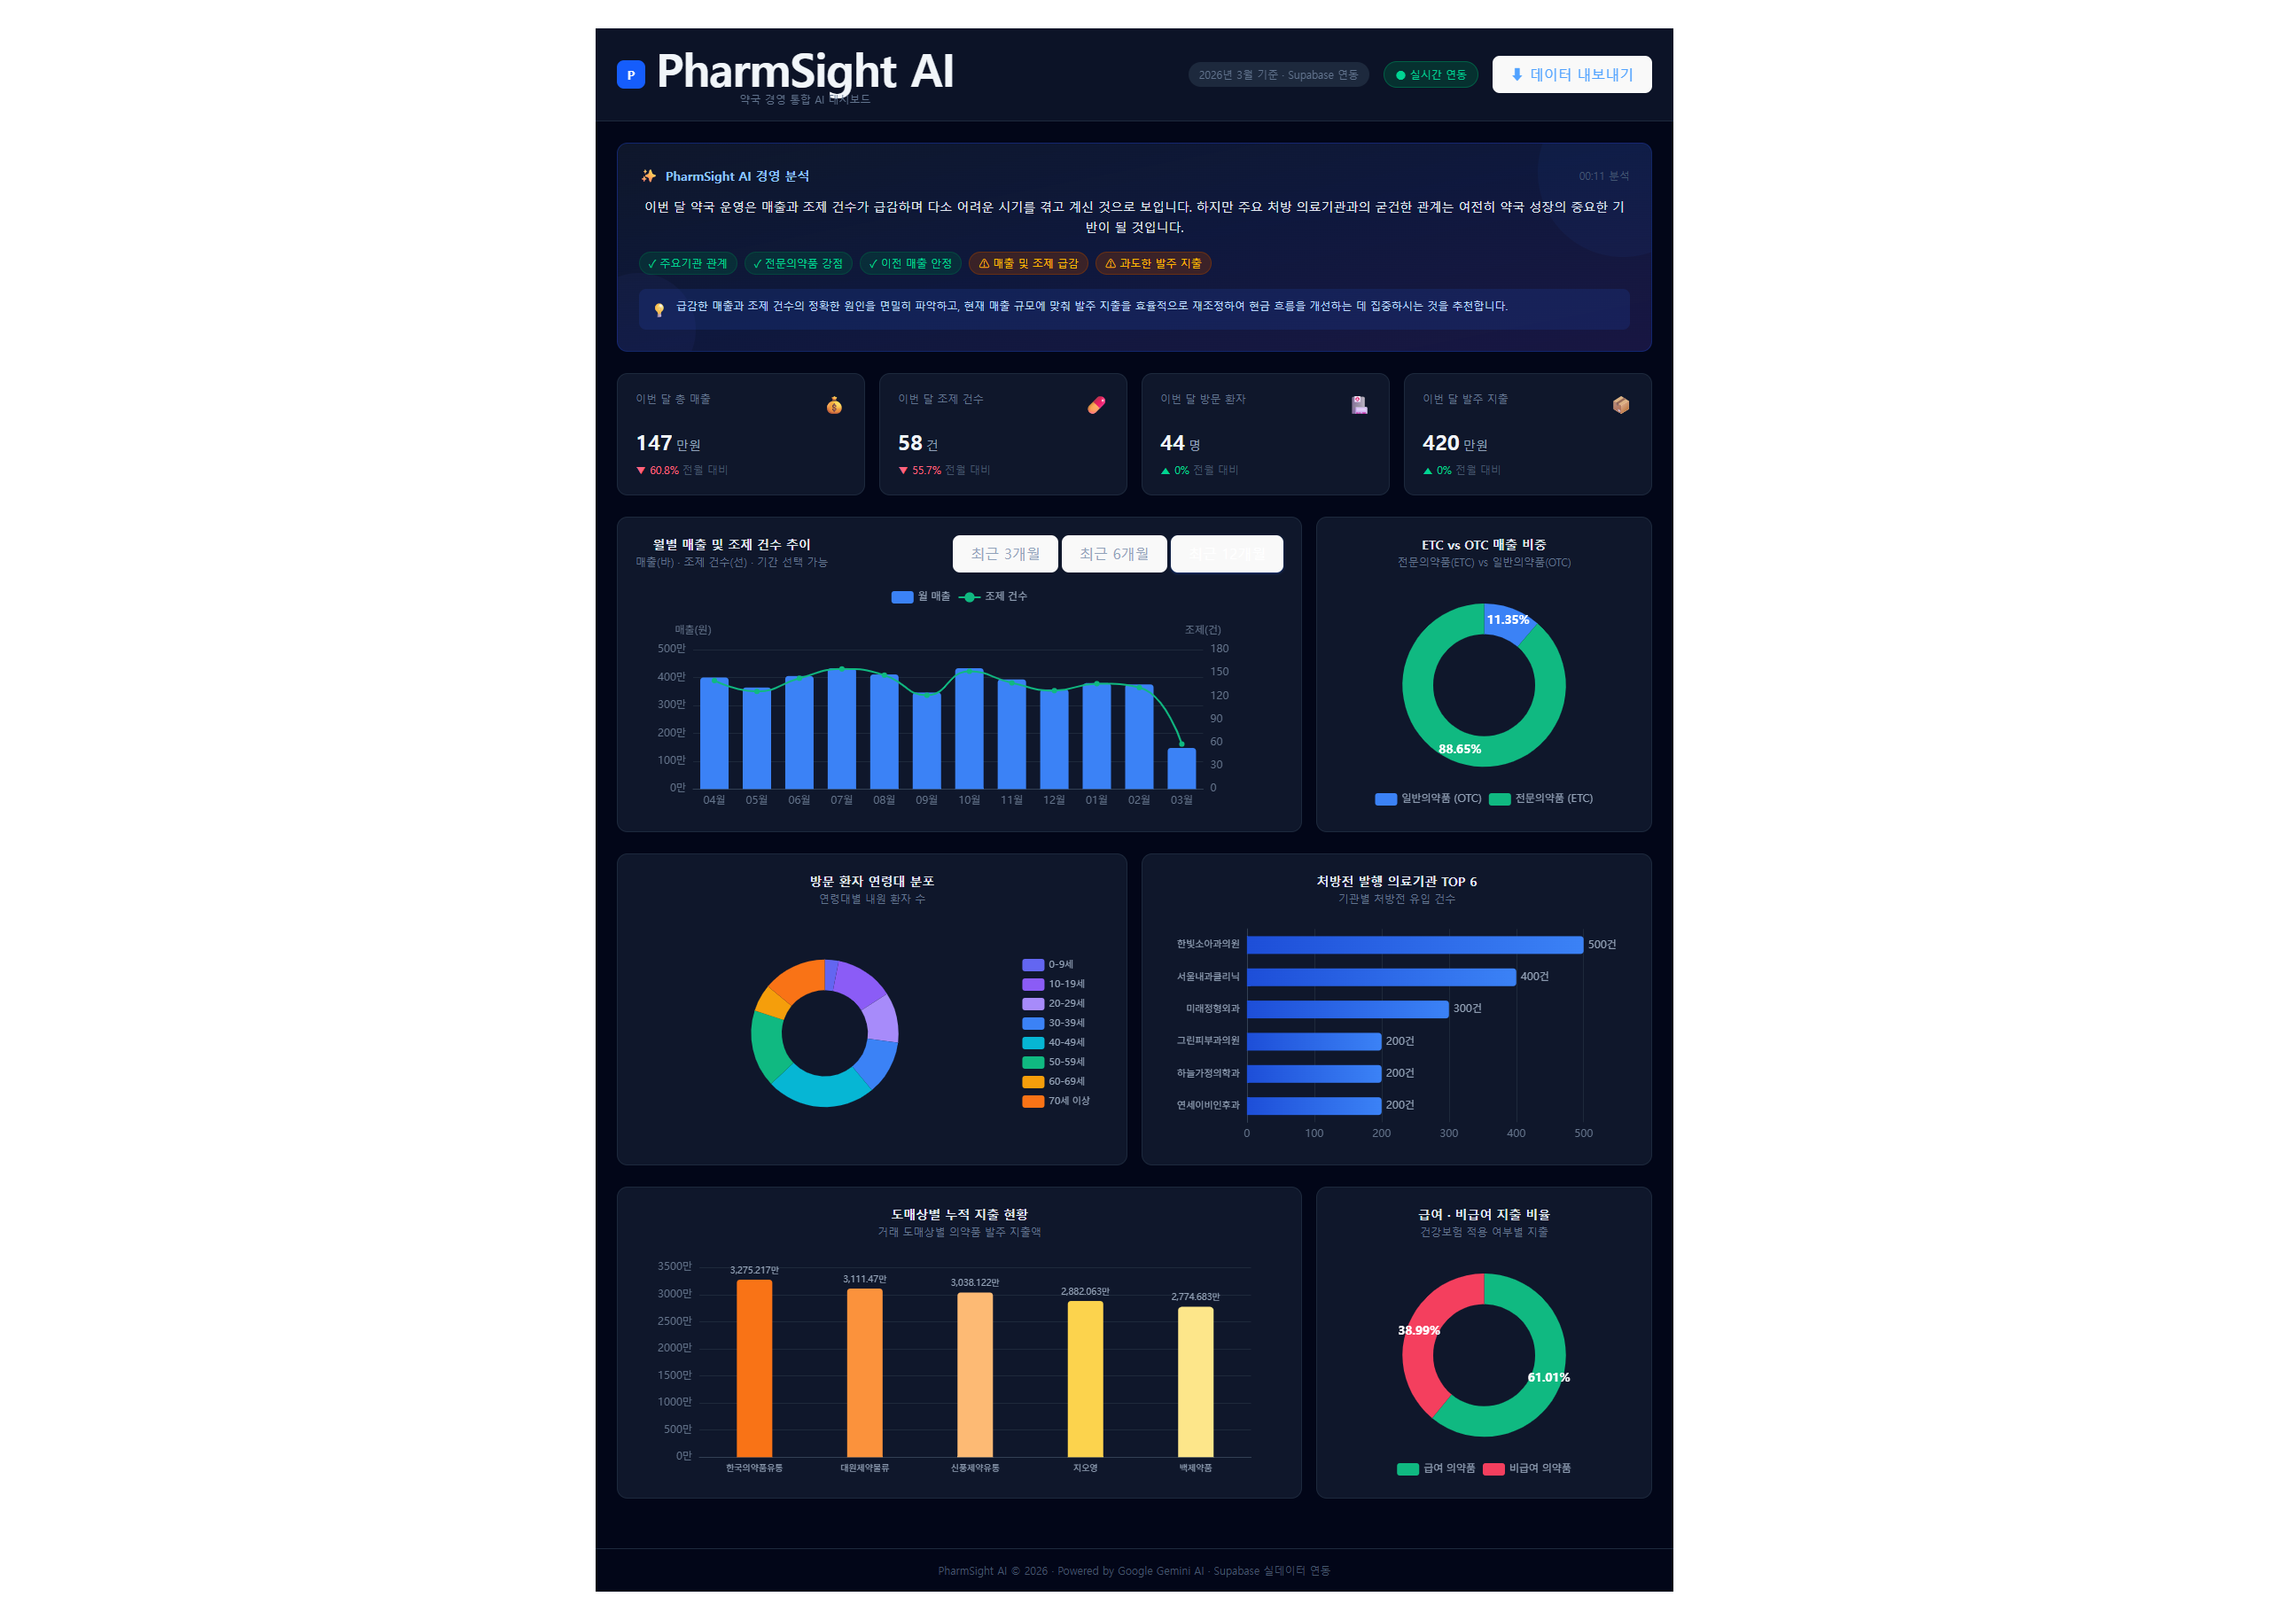
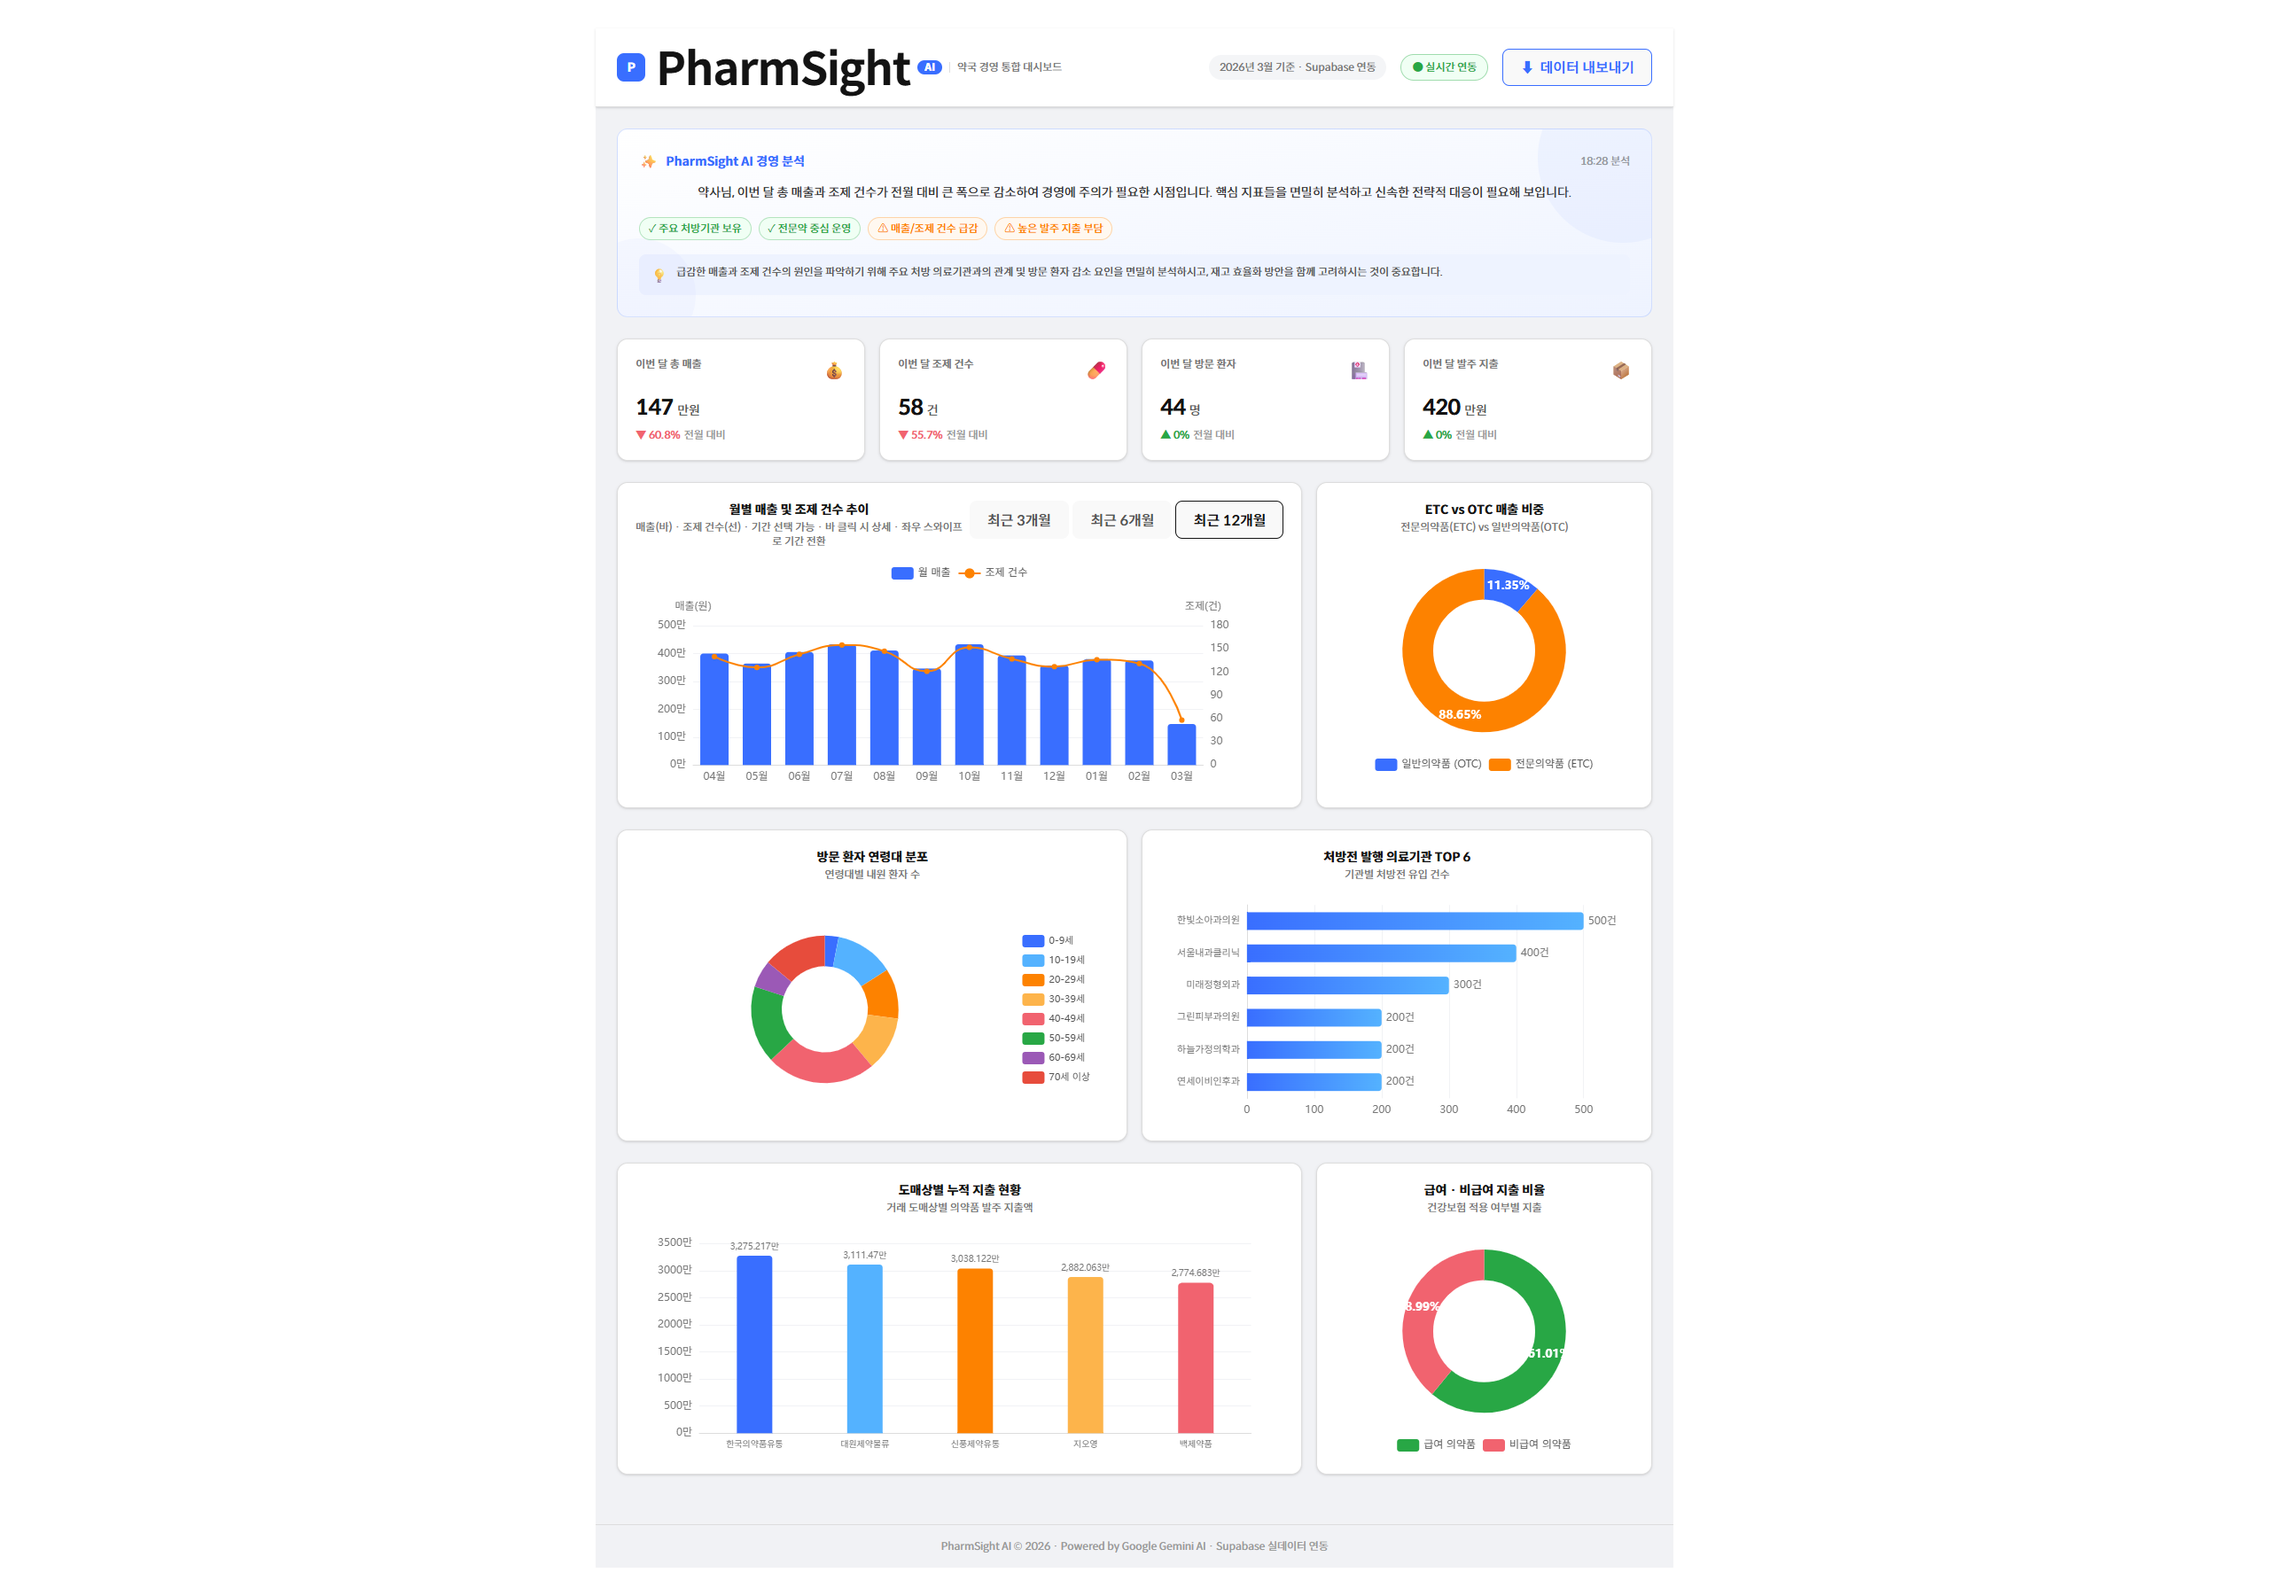
fix: Playwright E2E 테스트 h1 텍스트 및 부제목 단언 업데이트, 인트로 이미지 교체
- h1 단언: 'PharmSight AI' → 'PharmSight' + header 내 'AI' 배지 별도 확인
- 부제목 단언: '약국 경영 통합 AI 대시보드' → '약국 경영 통합 대시보드'
- docs/pharm-sight-intro.png: 신규 스크린샷으로 교체

diff --git a/frontend/e2e/dashboard.spec.ts b/frontend/e2e/dashboard.spec.ts
@@ -20,13 +20,14 @@ test.describe('대시보드 페이지 로딩', () => {
   test('메인 페이지가 정상적으로 로드된다', async ({ page }) => {
     await page.goto('/')
     await expect(page).toHaveTitle(/PharmSight/)
-    await expect(page.locator('h1')).toContainText('PharmSight AI')
+    await expect(page.locator('h1')).toContainText('PharmSight')
+    await expect(page.locator('header')).toContainText('AI')
   })
 
   test('헤더에 로고와 상태 배지가 표시된다', async ({ page }) => {
     await page.goto('/')
     await expect(page.locator('header')).toBeVisible()
-    await expect(page.locator('text=약국 경영 통합 AI 대시보드')).toBeVisible()
+    await expect(page.locator('text=약국 경영 통합 대시보드')).toBeVisible()
   })
 
   test('KPI 카드 4개가 렌더링된다', async ({ page }) => {
@@ -150,7 +151,7 @@ test.describe('엣지 케이스', () => {
     await page.waitForTimeout(2000)
     await page.reload()
     await page.waitForTimeout(3000)
-    await expect(page.locator('h1')).toContainText('PharmSight AI')
+    await expect(page.locator('h1')).toContainText('PharmSight')
   })
 
   test('에러 상태에서 [다시 시도] 버튼이 동작한다', async ({ page }) => {
